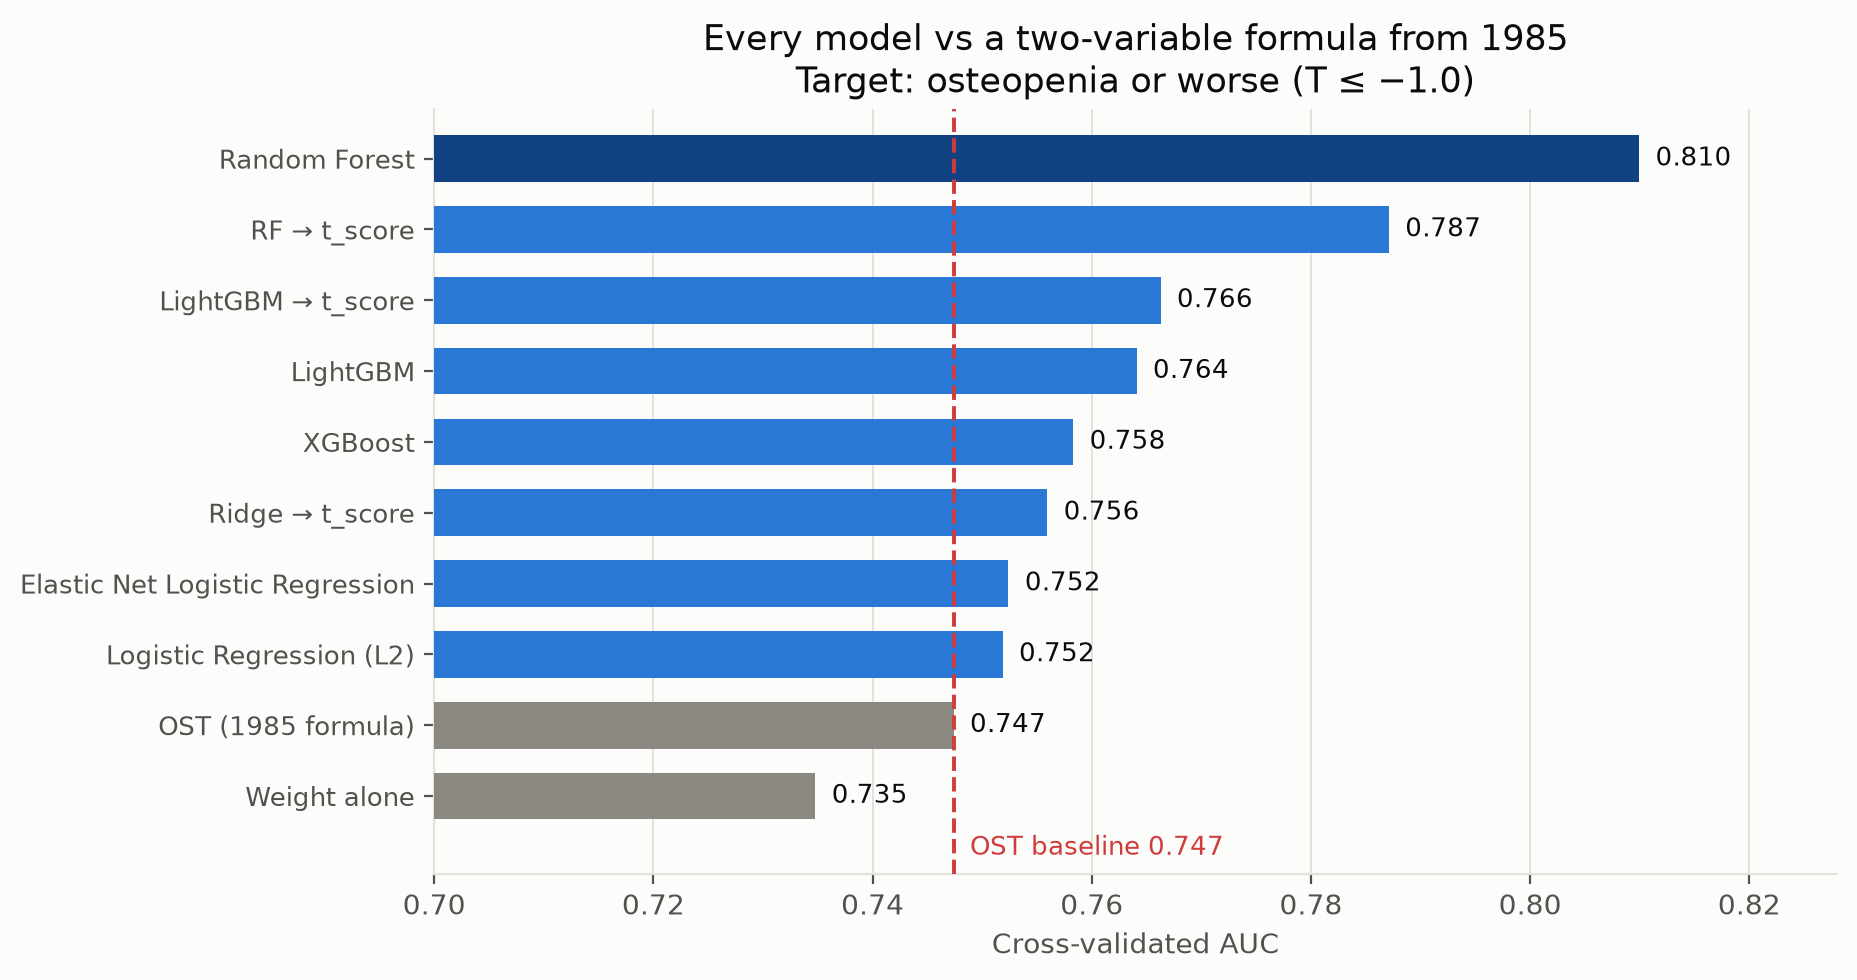
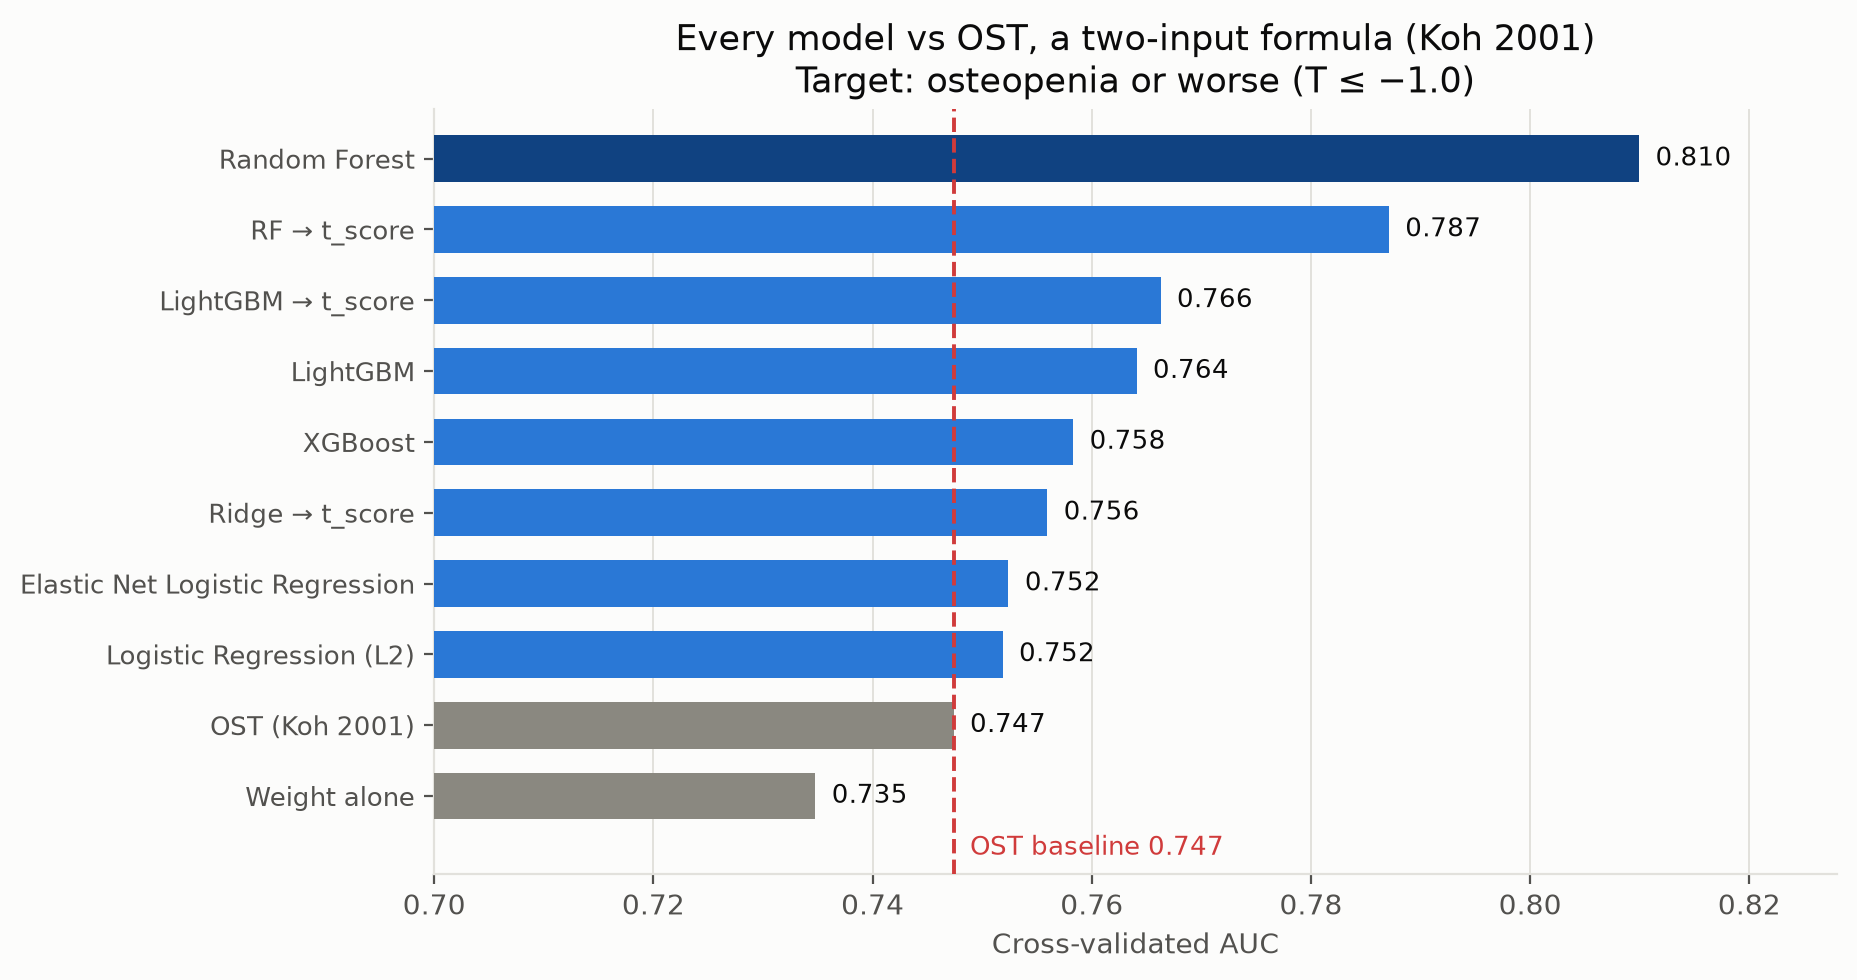
Correct the OST attribution: Koh et al. 2001, not 1985
OST/OSTA was derived by Koh LK et al. (Osteoporosis Self-Assessment Tool for
Asians Research Group), Osteoporos Int 2001;12:699-705, from postmenopausal women
across eight Asian countries. A variable-selection procedure over the candidate
risk factors retained only age and body weight, giving 0.2 x (weight - age).

The "1985" date was wrong. It originated in this repo at OsteoporosisML.py:1278
and was then propagated into the deck, the figures and the walkthrough - twelve
further places, including a slide title and a chart title. A bone specialist would
have recognised the misattribution immediately, so it is corrected everywhere
rather than only where it was most visible.

Also expanded the walkthrough's description of OST with its actual provenance and
validation record (19 external studies, sensitivity 84-97%, specificity 34-70%,
validated in non-Asian populations using the same algorithm with locally
re-optimised cutoffs), and added Koh 2001 as reference 12 - with a note recording
that earlier drafts mis-dated the formula, so the error is not silently erased.

The deck itself still needs rebuilding: the .pptx is open in PowerPoint and
locked. Nothing in it is wrong that is not also fixed in build_deck.py.

Changed region(s): [[0.3436, 0.0, 0.8745, 0.0612], [0.0937, 0.7347, 0.2186, 0.7653]]

diff --git a/Notes/project_walkthrough.html b/Notes/project_walkthrough.html
@@ -482,7 +482,7 @@
         <li><strong>Learn.</strong> Train eight different models to predict that label from the 23 clinic
           inputs, keeping the bone-density columns strictly out of the inputs.</li>
         <li><strong>Interrogate.</strong> Refuse to take the resulting numbers at face value. Compare against
-          a two-variable formula from 1985, re-run the whole model-selection procedure in a way that cannot
+          a two-variable formula from 2001, re-run the whole model-selection procedure in a way that cannot
           flatter itself, and translate the result into the only unit a clinician cares about: how many DXA
           scans you have to order to find one case.</li>
       </ol>
@@ -1257,12 +1257,16 @@
       <p>An AUC of 0.810 sounds respectable. Two questions decide whether it means anything, and roughly half
         the script's length exists to answer them.</p>
 
-      <h3>Question one: is it better than a two-variable formula from 1985?</h3>
+      <h3>Question one: is it better than a two-variable formula from 2001?</h3>
 
       <p>The <strong>OST</strong> — Osteoporosis Self-assessment Tool — is
-        <code>0.2 × (weight in kg − age in years)</code>. That is the entire model. It needs a bathroom scale
-        and a birthdate, it has been validated in many populations, and it is the bar any machine-learning
-        model has to clear. The script computes it, plus "weight alone" as an even cruder comparator, and
+        <code>0.2 × (weight in kg − age in years)</code>. That is the entire model. It was derived by
+        <strong>Koh et al. in 2001</strong> from postmenopausal women across eight Asian countries (hence the
+        original name OSTA, &ldquo;for Asians&rdquo;), where a variable-selection procedure over the candidate
+        risk factors retained only age and body weight. It has since been externally validated in some
+        nineteen studies, with sensitivity 84–97% and specificity 34–70%, and in non-Asian populations using
+        the same algorithm with locally re-optimised cutoffs. It needs a bathroom scale and a birthdate, and
+        it is the bar any machine-learning model has to clear. The script computes it, plus "weight alone" as an even cruder comparator, and
         reports every model's AUC <em>relative to OST</em> with a paired bootstrap confidence interval on the
         difference.</p>
 
@@ -1403,7 +1407,7 @@
           0.833; nested cross-validation says 0.806. That 0.027 drop <em>is</em> the selection bias, caught
           in the act. The remaining +0.031 advantage over OST has a confidence interval spanning zero
           ([−0.013, +0.077]) and one of the five folds came out negative. With 94 events, the correct
-          statement is that we cannot show the model beats a two-variable formula from 1985.</li>
+          statement is that we cannot show the model beats a two-variable formula from 2001.</li>
       </ul>
 
       <div class="note good">
@@ -1809,7 +1813,7 @@
         clinic-available information alone, with every trace of the scan excluded from the inputs. A random
         forest reaches a cross-validated AUC of 0.810 for detecting osteopenia or worse, at 74% sensitivity
         and 73% specificity. Tested honestly — with model selection moved inside each training fold — that
-        beats the 1985 two-variable OST formula by 0.063 AUC with a confidence interval clear of zero, and it
+        beats the OST formula by 0.063 AUC with a confidence interval clear of zero, and it
         beats it in every fold. For osteoporosis specifically we cannot make that claim: the apparent
         advantage shrinks from +0.060 to +0.031 once selection bias is removed, and the interval crosses
         zero, because there are only 94 cases.</p>
@@ -1884,7 +1888,7 @@
           particular rows. For osteopenia the two agree exactly, which is itself reassuring. For osteoporosis
           they do not, and the nested one is right.</dd>
 
-        <dt>Is a two-variable formula from 1985 really the benchmark?</dt>
+        <dt>Is a two-variable formula really the benchmark?</dt>
         <dd>It is the right benchmark precisely because it is so cheap: weight minus age, times 0.2. It
           scores 0.747 here. Any model that needs 23 variables, blood work and a diet survey has to justify
           itself against that, and for osteoporosis specifically it currently cannot. If a specialist prefers
@@ -1914,7 +1918,7 @@
 
       <p class="lede">FRAX runs on much the same primary-care inputs — age, sex, weight, height, prior
         fracture, steroids, smoking, alcohol — and can be computed without a DXA. So the first question any
-        specialist will ask is why this project measures itself against a two-variable formula from 1985
+        specialist will ask is why this project measures itself against a two-variable formula from 2001
         instead of the tool everybody actually uses.</p>
 
       <p>The answer is that they predict different things, for different decisions, at different points in
@@ -2131,6 +2135,19 @@
             <p style="margin-bottom:5px;color:var(--ink-3);font-size:14px">2024. n = 92.<br>
               <a href="https://www.ncbi.nlm.nih.gov/pmc/articles/PMC10780144/">https://www.ncbi.nlm.nih.gov/pmc/articles/PMC10780144/</a></p>
             <p style="margin-bottom:0">Shows the threshold problem concretely: 6.6% MOF, not the guideline 9.3%, was needed for usable case-finding sensitivity.</p>
+          </dd>
+        </div>
+        <div>
+          <dt>12</dt>
+          <dd>
+            <p style="margin-bottom:5px"><strong>A simple tool to identify Asian women at increased risk of osteoporosis</strong></p>
+            <p style="margin-bottom:5px;color:var(--ink-3);font-size:14px">Koh LK, Sedrine WB, Torralba TP, et al.
+              (Osteoporosis Self-Assessment Tool for Asians Research Group). Osteoporosis International, 2001;12:699–705.
+              doi:10.1007/s001980170070<br>
+              <a href="https://doi.org/10.1007/s001980170070">https://doi.org/10.1007/s001980170070</a></p>
+            <p style="margin-bottom:0">The original derivation of OST/OSTA, and the correct attribution for
+              <code>0.2 × (weight − age)</code>. Recorded here because earlier drafts of this project
+              mis-dated the formula to 1985 — an error that reached a slide title before it was caught.</p>
           </dd>
         </div>
       </div>

diff --git a/Notes/build_deck.py b/Notes/build_deck.py
@@ -420,7 +420,8 @@ for i, (t, body) in enumerate([
      'Split the 1,484 women into five groups holding case proportion equal. Train on four, test on the fifth, '
      'rotate five times. Every woman is tested exactly once, on a model that never saw her. Seed fixed at 42 throughout.'),
     ('The OST baseline — the bar to clear',
-     'OST = 0.2 × (weight_kg − age). A validated 1985 formula needing only a scale and a birthdate. '
+     'OST = 0.2 × (weight_kg − age). A validated formula (Koh et al., 2001) needing only a scale and '
+     'a birthdate. '
      'Reporting AUC without a cheap comparator is uninterpretable. Our OST scores 0.747 / 0.773 — inside the published 0.71–0.79 range, '
      'which independently validates the implementation.'),
     ('Nested cross-validation — the honest number',
@@ -500,7 +501,7 @@ takeaway(s, 'The claim is therefore narrow and defensible: the pre-DXA triage de
 # ===========================================================================
 # 13. LEADERBOARD
 # ===========================================================================
-s = new('Every model against the 1985 formula', 'Results — leaderboard')
+s = new('Every model against the OST formula', 'Results — leaderboard')
 figure(s, 'fig2_leaderboard.png', 1.15, 1.8, 8.1)
 tf = tb(s, 9.5, 2.0, 3.3, 4.3)
 line(tf, 'Reading it', size=15.5, bold=True, color=NAVY, first=True)
@@ -658,7 +659,7 @@ rows = [['Study', 'Data', 'Reported', 'How this project differs'],
         ['KNHANES calculator\n(BioData Mining, 2026)', 'Korean NHANES\n2008–11',
          'AUC 0.845\nspec 0.897',
          'Closest in spirit — explicitly framed as a high-specificity "rule-in" tool, not a DXA replacement. Includes temporal validation (AUC 0.876)'],
-        ['OST (the 1985 benchmark)', 'many cohorts,\nmeta-analysed',
+        ['OST — the benchmark\n(Koh et al., 2001)', 'derived in 8 Asian\ncountries; validated\nin 19 studies',
          'AUC 0.71–0.79\nsens 83% spec 63%',
          'Our OST computes to 0.747 / 0.773 — inside the published range, which independently validates our implementation']]
 table(s, rows, 0.62, 1.85, 12.1, col_w=[2.75, 2.2, 1.85, 5.3], size=10.5, h=3.5)
@@ -843,7 +844,7 @@ for t in ['Using six NHANES cycles we assembled 1,484 non-Hispanic White women a
           'alone, with every trace of the scan excluded from the inputs.',
           'A random forest reaches a cross-validated AUC of 0.810 for osteopenia or worse, at 74% sensitivity '
           'and 73% specificity.',
-          'Tested honestly — model selection moved inside each training fold — that beats the 1985 two-variable '
+          'Tested honestly — model selection moved inside each training fold — that beats OST, a two-variable '
           'OST formula by 0.063 AUC, with a confidence interval clear of zero, in every fold.',
           'For osteoporosis specifically we cannot make that claim: the advantage shrinks from +0.060 to +0.031 '
           'once selection bias is removed, and the interval crosses zero, because there are only 94 cases.']:

diff --git a/Notes/make_figures.py b/Notes/make_figures.py
@@ -72,7 +72,7 @@ finish(fig, 'fig1_attrition.png')
 bc = pd.read_csv(os.path.join(BASE, 'outputs', 'baseline_comparison.csv'))
 op = bc[bc['Target'].str.contains('OSTEOPENIA')].sort_values('AUC')
 labels = op['Model'].str.replace(' (Aggressive Reg)', '', regex=False)
-labels = labels.str.replace('  0.2x(weight-age)', ' (1985 formula)', regex=False)
+labels = labels.str.replace('  0.2x(weight-age)', ' (Koh 2001)', regex=False)
 labels = labels.str.replace('->', '→', regex=False)
 vals = op['AUC'].to_numpy()
 ost = float(op.loc[op['Model'].str.startswith('OST'), 'AUC'].iloc[0])
@@ -92,7 +92,7 @@ for yi, v in zip(yy, vals):
 ax.set_yticks(yy); ax.set_yticklabels(labels, fontsize=9.5)
 ax.set_xlim(0.70, 0.828); ax.set_ylim(-1.1, len(vals) - 0.3)
 ax.set_xlabel('Cross-validated AUC')
-ax.set_title('Every model vs a two-variable formula from 1985\nTarget: osteopenia or worse (T ≤ −1.0)')
+ax.set_title('Every model vs OST, a two-input formula (Koh 2001)\nTarget: osteopenia or worse (T ≤ −1.0)')
 ax.grid(axis='x', color=GRID, lw=0.7, zorder=0); ax.set_axisbelow(True)
 finish(fig, 'fig2_leaderboard.png')
 

diff --git a/OsteoporosisML.py b/OsteoporosisML.py
@@ -1275,7 +1275,7 @@ def evaluate_dual_target(X, df):
         all_tuning.append(report_rf_tuning(X, y, tname.strip(), ref=ref)
                           .assign(Target=tname.strip()))
 
-    print(f"\n{'=' * 102}\n  BOTTOM LINE — incremental value over a two-variable 1985 formula\n{'=' * 102}")
+    print(f"\n{'=' * 102}\n  BOTTOM LINE — incremental value over OST, a two-variable formula (Koh 2001)\n{'=' * 102}")
     for tname, b in summary.items():
         if b['nested_lo'] > 0:
             verdict = "BEATS OST (nested 95% CI excludes zero)"
